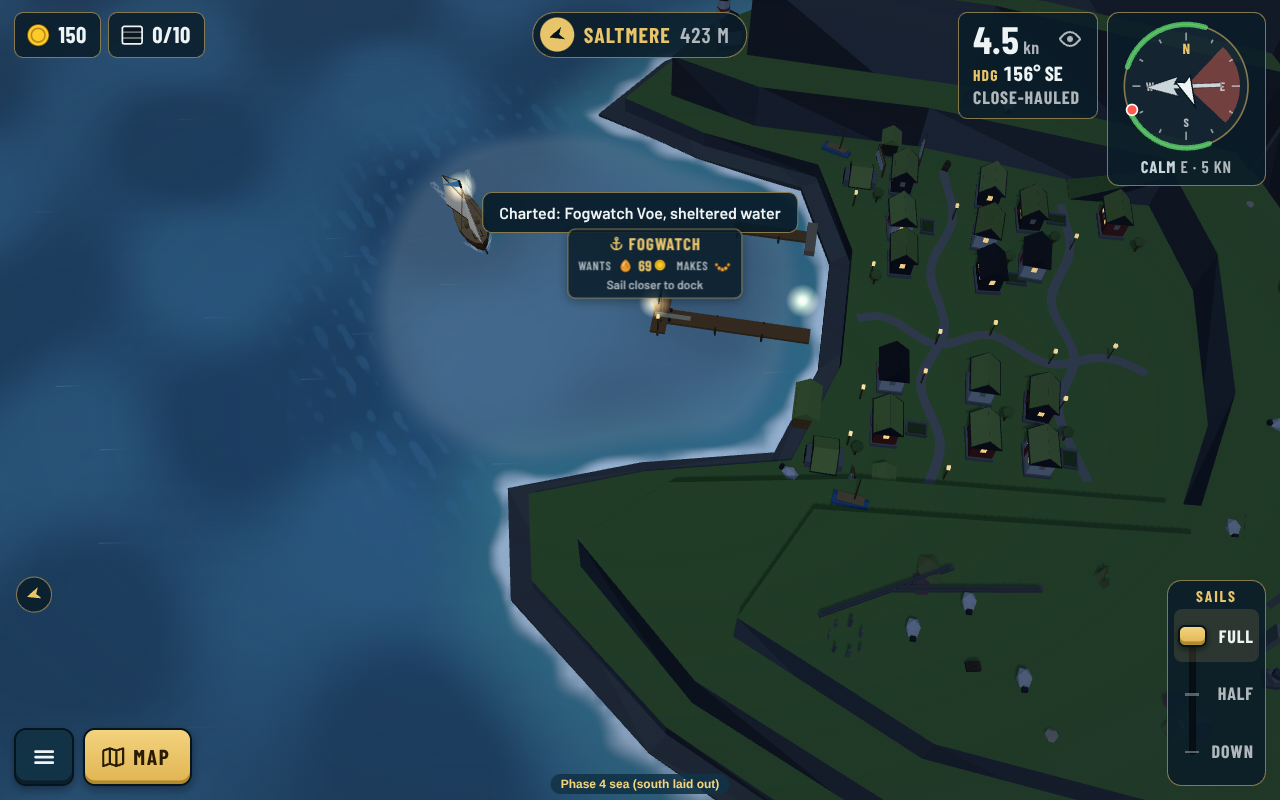
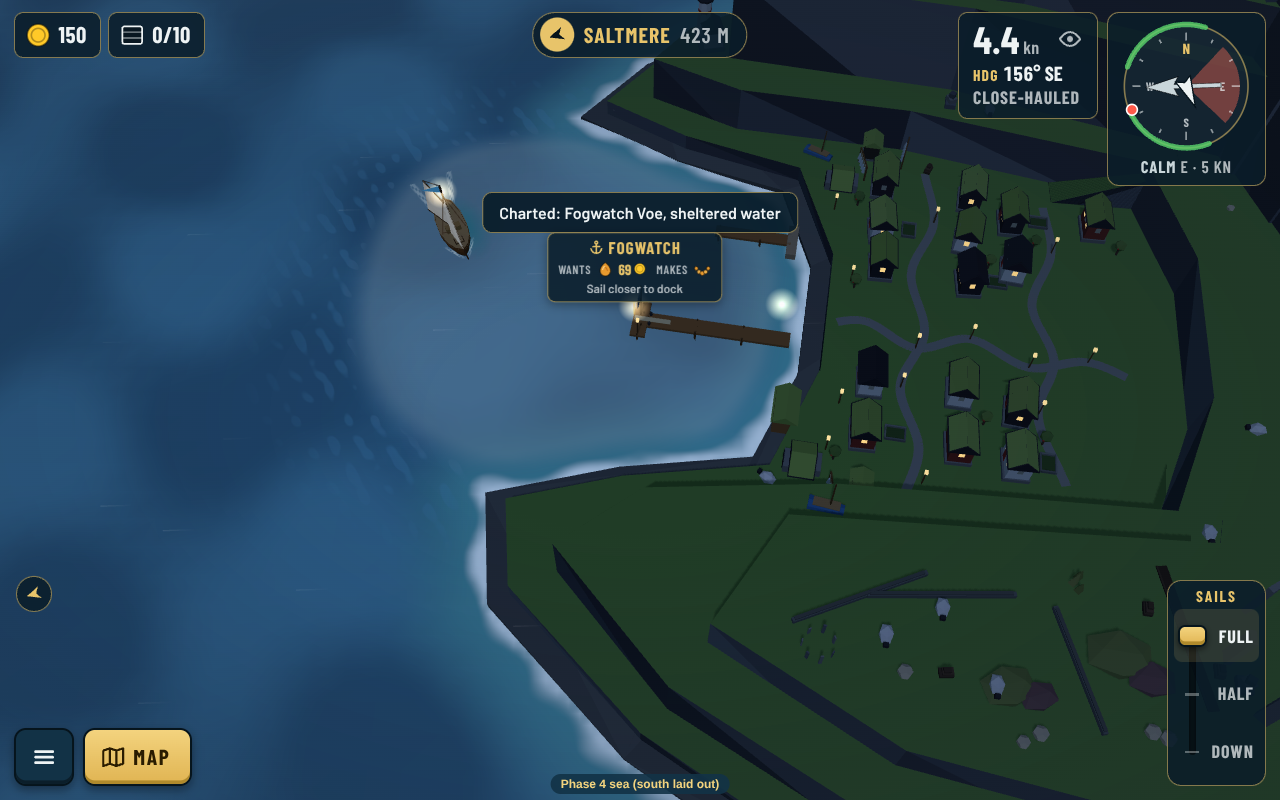
Fogwatch: big heather patches, a peat cutting, contrasting cliff bands; decision 0174 accepted
Claude-Session: https://claude.ai/code/session_016woYKHL37N2LpcxnCQsLjb

diff --git a/tests/island-files.test.ts b/tests/island-files.test.ts
@@ -144,11 +144,11 @@ const GOLDEN: Record<string, string[]> = {
   'palm-key': ['296:5af31071', '270:7e77b63a', '266:18f30d17', '266:18f30d17'],
   'lone-palm': Array(4).fill('13:2bd589f4'),
   // The east sea (decision 0173).
-  fogwatch: ['627:8aecde02', '748:5c1fb58b', '820:1802c667', '861:600bb021'],
-  'the-giant': Array(4).fill('6:bb1431f9'),
-  'his-wife': Array(4).fill('6:ccc0f0d7'),
+  fogwatch: ['630:a7a31ab1', '751:1036b9b6', '823:4bc333a2', '864:1d37430e'],
+  'the-giant': Array(4).fill('6:c84f56e6'),
+  'his-wife': Array(4).fill('6:676eecc4'),
   'amber-strand': ['129:e66b7b39', '133:56673594', '136:e68e96ec', '136:e68e96ec'],
-  'puffin-holm': Array(4).fill('8:9eada24b'),
-  'lamb-holm': Array(4).fill('17:2a66e241'),
-  'broch-isle': Array(4).fill('14:c3697752'),
+  'puffin-holm': Array(4).fill('8:3ff49b4c'),
+  'lamb-holm': Array(4).fill('17:85293a40'),
+  'broch-isle': Array(4).fill('14:18071749'),
 };

diff --git a/docs/decisions/0174-fogwatch-detail-pass-beach-width-heather-peat-and-rowans.md b/docs/decisions/0174-fogwatch-detail-pass-beach-width-heather-peat-and-rowans.md
@@ -1,6 +1,6 @@
 # 0174. Fogwatch detail pass: beach width, heather, peat and rowans
 
-**Status:** Proposed (2026-10-25). Waiting on the Art director and Guillaume's look at the [review](../reviews/east-sea/README.md#detail-pass-0174).
+**Status:** Accepted (2026-10-25): the Art director and Guillaume OKed the [review](../reviews/east-sea/README.md#detail-pass-0174).
 
 ## Context
 
@@ -9,8 +9,8 @@ Guillaume asked the Art director to compare Fogwatch ([0173](0173-east-sea-fogwa
 ## Decision
 
 - **Beach width as data:** a coast ground may give `beach` (radius units, default 0.085). Fogwatch's is 0.05, a narrow stony shore. Island builder: the coast ground's **Beach width**; command line: `npm run island -- <id> ground 0 --beach 0.05`.
-- **Shore and cliffs:** `greyshingle` is darker (`#5f625f` / `#686b67`); `turf` cliffs take four basalt tones (`#3f4248` to `#6b6f75`), so the faces jitter like Sunreach's.
-- **New props:** `heather` (low purple-brown and olive patches), `peat-stack`, `rowan` (a small tree with red berries), `kale-yard` (a walled garden), `beached-boat` (a boat pulled up on the shore).
+- **Shore and cliffs:** `greyshingle` is darker (`#5f625f` / `#686b67`); `turf` cliffs take four basalt tones (`#3f434a` to `#74787e`), so the faces jitter like Sunreach's.
+- **New props:** `heather` (low purple-brown and olive patches), `peat-stack`, `peat-cutting`, `rowan` (a small tree with red berries), `kale-yard` (a walled garden), `beached-boat` (a boat pulled up on the shore).
 - **Fogwatch:** the 17 houses packed in rows along the lanes, turned to face them; kale yards and rowans by the houses; 10 lamp posts along the lanes; boats pulled up and drying racks by the boathouses; heather, boulders, peat stacks, dry-stone walls, cairns and about twice the sheep over the fells. Treeless still: height comes from the fells and cliffs.
 - It stays inside the island's 6000-triangle budget (heather is two low blobs).
 

diff --git a/docs/decisions/README.md b/docs/decisions/README.md
@@ -193,4 +193,4 @@ Template for new entries: `# NNNN. Title`, then **Status**, **Context**, **Decis
 | [0169](0169-haze-fog-banks-and-ash-clouds-as-wind-zone-kinds.md) | **Haze: fog banks and ash clouds as wind-zone kinds**: a zone kind's `haze` (sight, colour, edge, Settings switch) closes the scene fog in with a screen veil; `fog-bank` first, west's `ash` next; Settings rows from the data; charted once sailed even with Wind zones off; the view range in `weather.json` › `sight` | 2026-10-24 | Accepted |
 | [0172](0172-south-sea-look-polish-tropic-grounds-jungle-woods-night-lamp.md) | **South sea look polish: tropic grounds, jungle woods, night lamps**: `coralsand`, `jungle` (ochre cliffs) and `ochre` grounds on the `tropic` style, `woodland-jungle` trees and denser woods, Palm Key's hill in tiers with a rock peak, a bigger jade-roofed tea house, lamp posts along Sunreach's lanes | 2026-10-24 | Accepted |
 | [0173](0173-east-sea-fogwatch-the-stepping-stones-and-fog-banks.md) | **East sea: Fogwatch, the Stepping Stones and fog banks**: Fogwatch, Amber Strand site, basalt skerry barrier with one gateway, fog banks, the Race; `fog` and `strand` styles, reef rock style, landmark props | 2026-10-24 | Accepted |
-| [0174](0174-fogwatch-detail-pass-beach-width-heather-peat-and-rowans.md) | **Fogwatch detail pass: beach width, heather, peat and rowans**: beach width per island (`beach` on a coast ground), darker shingle, banded basalt cliff tones, heather, peat stacks, rowans, kale yards, beached boats; Fogwatch's town packed along its lanes | 2026-10-25 | Proposed |
+| [0174](0174-fogwatch-detail-pass-beach-width-heather-peat-and-rowans.md) | **Fogwatch detail pass: beach width, heather, peat and rowans**: beach width per island (`beach` on a coast ground), darker shingle, banded basalt cliff tones, heather, peat stacks, rowans, kale yards, beached boats; Fogwatch's town packed along its lanes | 2026-10-25 | Accepted |
